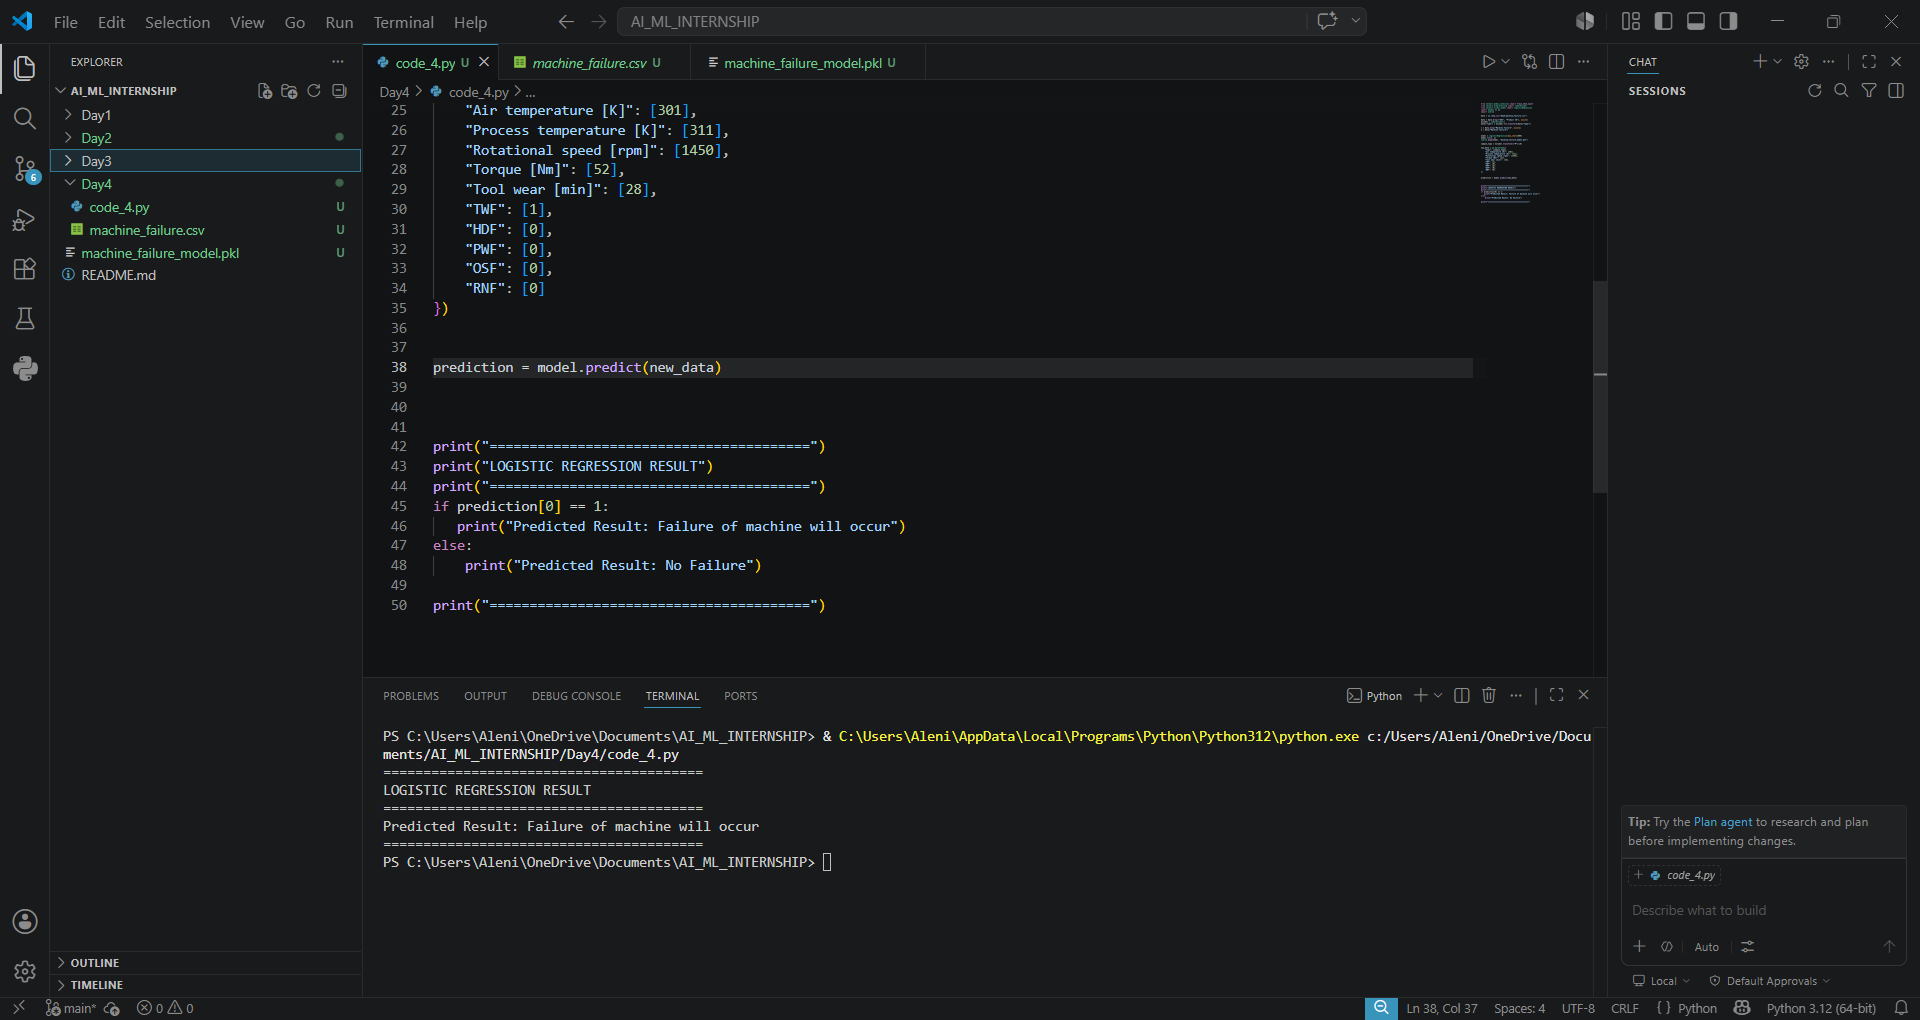
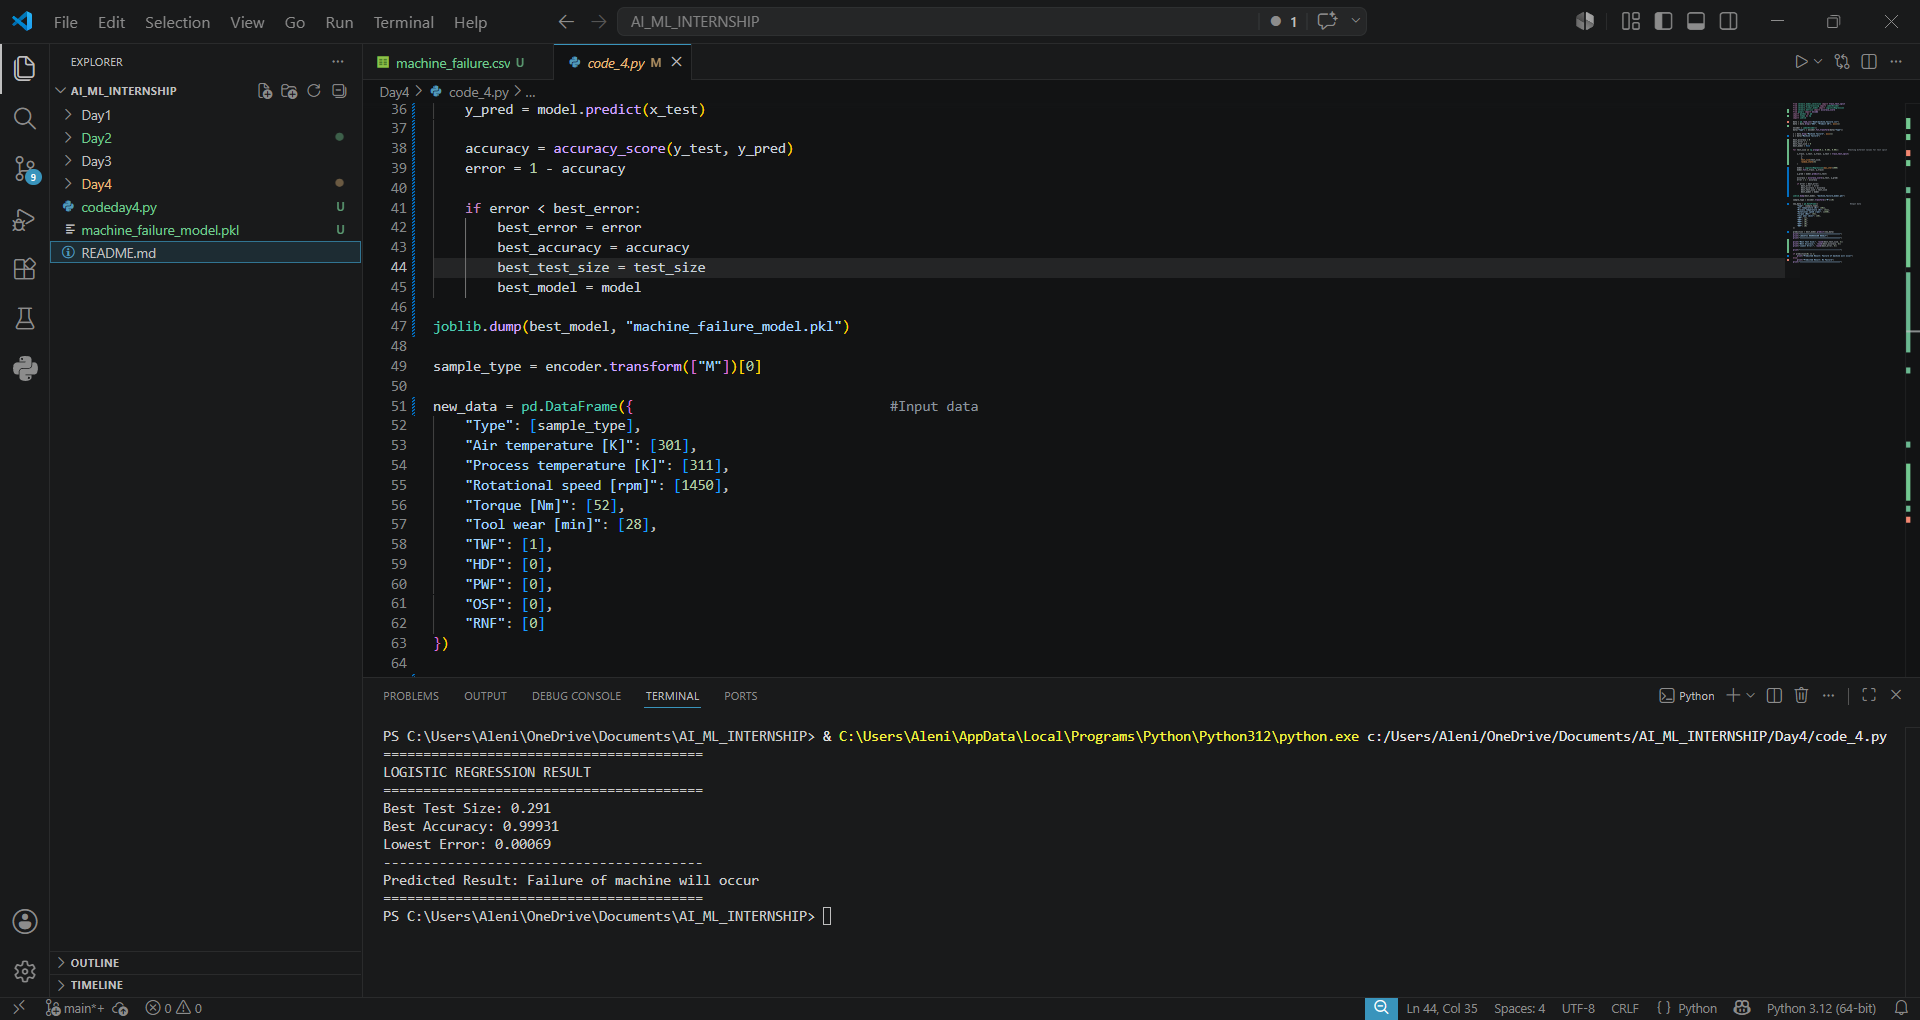
Initial commit of system files

diff --git a/Day4/code_4.py b/Day4/code_4.py
@@ -1,26 +1,54 @@
 from sklearn.model_selection import train_test_split
 from sklearn.preprocessing import LabelEncoder
 from sklearn.linear_model import LogisticRegression
+from sklearn.metrics import accuracy_score
+from quopri import encode
 import pandas as pd
+import numpy as np
 import joblib
 
 data = pd.read_csv("Day4/machine_failure.csv")
-
 data = data.drop(["UDI", "Product ID"], axis=1)
+
 encoder = LabelEncoder()
 data["Type"] = encoder.fit_transform(data["Type"])
 
 x = data.drop("Machine failure", axis=1)
-y = data["Machine failure"] 
+y = data["Machine failure"]
 
+best_accuracy = 0
+best_error = 1
+best_test_size = 0
+best_model = None
 
-model = LogisticRegression(max_iter=1000)
-model.fit(x, y)
-joblib.dump(model, "machine_failure_model.pkl")
+for test_size in np.arange(0.1, 0.301, 0.001):         #testing diferent values for test split
+
+    x_train, x_test, y_train, y_test = train_test_split(
+        x,
+        y,
+        test_size=test_size,
+        random_state=42
+    )
+
+    model = LogisticRegression(max_iter=1000)
+    model.fit(x_train, y_train)
+
+    y_pred = model.predict(x_test)
+
+    accuracy = accuracy_score(y_test, y_pred)
+    error = 1 - accuracy
+
+    if error < best_error:
+        best_error = error
+        best_accuracy = accuracy
+        best_test_size = test_size
+        best_model = model
+
+joblib.dump(best_model, "machine_failure_model.pkl")
 
 sample_type = encoder.transform(["M"])[0]
 
-new_data = pd.DataFrame({
+new_data = pd.DataFrame({                                #Input data
     "Type": [sample_type],
     "Air temperature [K]": [301],
     "Process temperature [K]": [311],
@@ -34,15 +62,19 @@ new_data = pd.DataFrame({
     "RNF": [0]
 })
 
-prediction = model.predict(new_data)
-
-
+prediction = best_model.predict(new_data)
 print("========================================")
 print("LOGISTIC REGRESSION RESULT")
 print("========================================")
+
+print("Best Test Size:", round(best_test_size, 3))
+print("Best Accuracy:", round(best_accuracy, 5))
+print("Lowest Error:", round(best_error, 5))
+
+print("----------------------------------------")
+
 if prediction[0] == 1:
-   print("Predicted Result: Failure of machine will occur")
+    print("Predicted Result: Failure of machine will occur")
 else:
     print("Predicted Result: No Failure")
- 
 print("========================================")